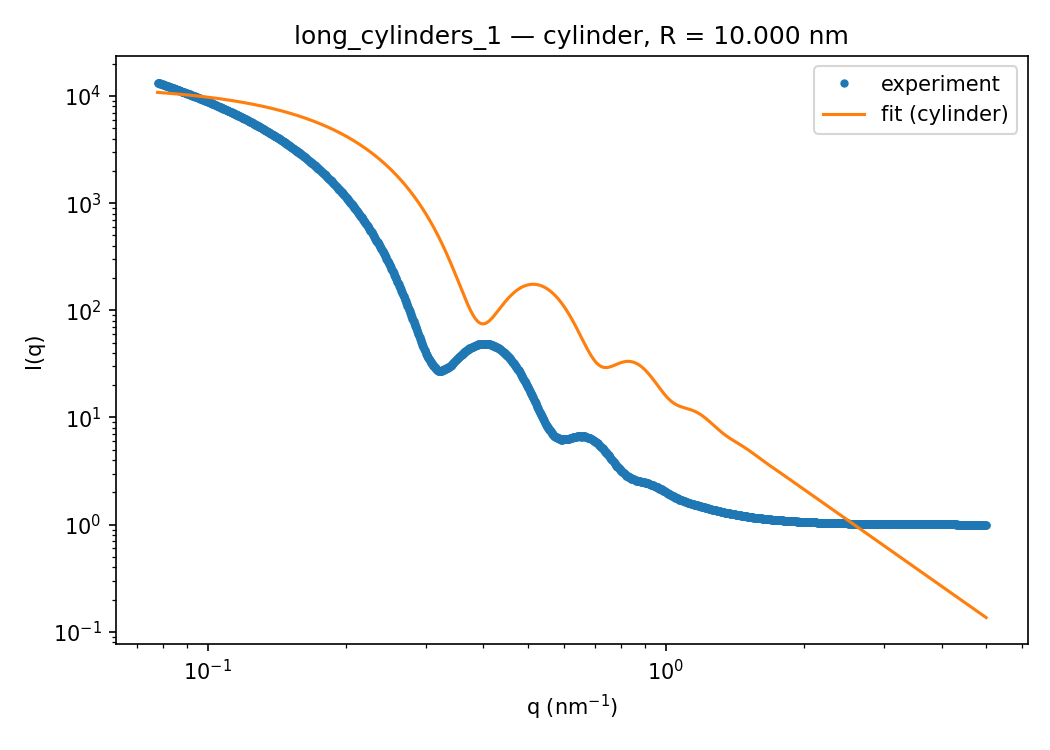
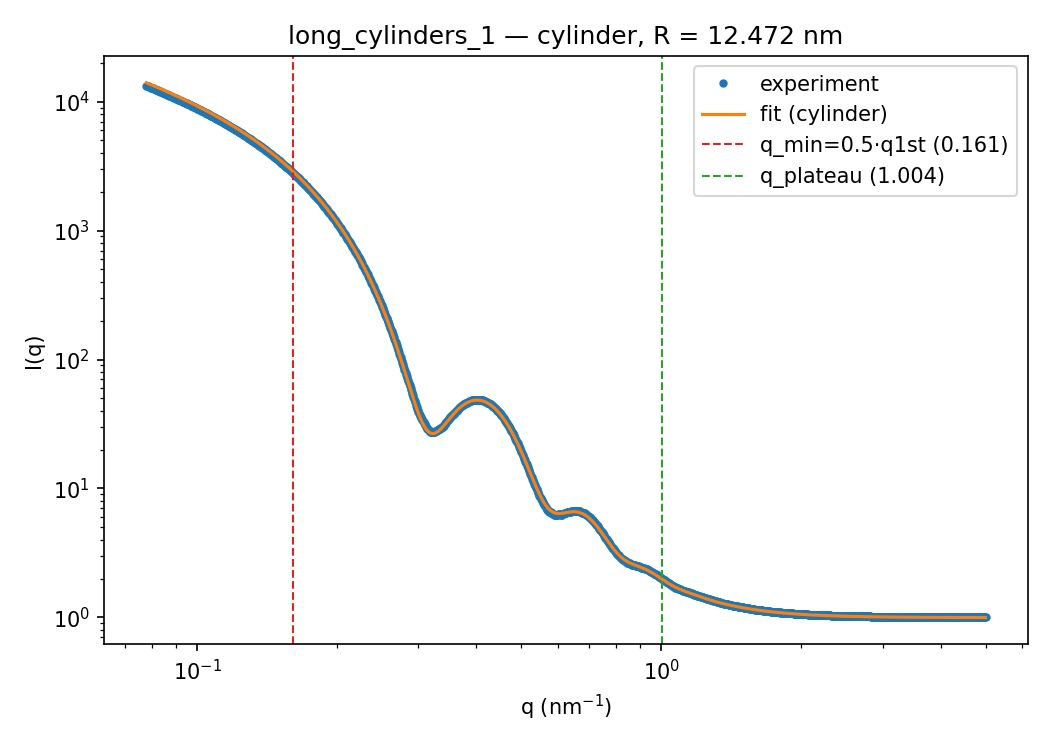
week2: Step3  (v4)

diff --git a/src/Fitting/run_fit_synthetic.py b/src/Fitting/run_fit_synthetic.py
@@ -4,9 +4,14 @@
 - spheres_1.txt      -> модель "sphere"
 - long_cylinders_1.txt -> модель "cylinder" (длинный цилиндр, только радиус)
 
+Область фита для цилиндра определяется по данным:
+- нижняя граница = 0.5 * q_first_minima (первый минимум форм-фактора);
+- верхняя граница = q, где кривая выходит на фоновое плато
+  (интенсивность приближается к минимальному значению хвоста).
+
 Сохраняет в results/synthetic/Pq:
 - <name>.json — параметры фита (radius_nm, polydispersity, scale, background)
-- <name>.png  — сравнительный график exp vs fit
+- <name>.png  — сравнительный график exp vs fit с границами области фита
 
 Запуск: python3 src/Fitting/run_fit_synthetic.py
 """
@@ -19,12 +24,13 @@ import matplotlib
 
 matplotlib.use("Agg")
 import matplotlib.pyplot as plt
+import numpy as np
 
 import sys
 
 sys.path.insert(0, str(Path(__file__).resolve().parents[1]))
 
-from Fitting.fit_form_factors import fit_from_file, fit_result_to_dict
+from Fitting.fit_form_factors import fit_form_factor, fit_result_to_dict
 
 DATA_DIR = Path("data/synthetic/Pq")
 OUT_DIR = Path("results/synthetic/Pq")
@@ -35,11 +41,31 @@ MODELS = {
     "long_cylinders_1.txt": "cylinder",
 }
 
-# ограничение области фита (q в нм^-1). Цилиндр: только осцилляции до фона.
-Q_RANGE = {
-    "spheres_1.txt": None,  # сфера фитируется по всему диапазону
-    "long_cylinders_1.txt": (0.0, 0.11),  # осцилляции заканчиваются ~0.1 нм^-1
-}
+
+def find_first_minimum(q_nm: np.ndarray, I: np.ndarray) -> float:
+    """Первый локальный минимум лог-интенсивности (переход убывание->возрастание)."""
+    logI = np.log(I + 1e-12)
+    d = np.diff(logI)
+    sign = np.sign(d)
+    idx = np.where((sign[:-1] < 0) & (sign[1:] > 0))[0]
+    if len(idx) > 0:
+        return float(q_nm[idx[0] + 1])
+    return float(q_nm[-1])
+
+
+def find_plateau_start(q_nm: np.ndarray, I: np.ndarray) -> float:
+    """q, где кривая выходит на фоновое плато.
+
+    Плато — хвост кривой, где интенсивность приближается к фоновому значению
+    (минимуму кривой). Считаем, что плато начинается там, где I впервые
+    опускается ниже 2× минимального значения (фон ~ I_min).
+    """
+    I_min = float(np.min(I))
+    thr = 2.0 * I_min
+    below = np.where(I < thr)[0]
+    if len(below) == 0:
+        return float(q_nm[-1])
+    return float(q_nm[below[0]])
 
 
 def main() -> None:
@@ -49,7 +75,22 @@ def main() -> None:
         data_path = DATA_DIR / fname
         name = data_path.stem
 
-        result = fit_from_file(data_path, model, pd=0.1, q_range=Q_RANGE[fname])
+        data = np.loadtxt(data_path, comments="#", skiprows=1)
+        q_ang = data[:, 0]
+        I_exp = data[:, 1]
+        q_nm = q_ang * 10.0  # Å^-1 -> нм^-1
+
+        # Определяем область фита по данным
+        q_range = None
+        if model == "cylinder":
+            q_first_min = find_first_minimum(q_nm, I_exp)
+            q_lo = 0.5 * q_first_min
+            q_hi = find_plateau_start(q_nm, I_exp)
+            q_range = (q_lo, q_hi)
+            print(f"[{name}] первый минимум q={q_first_min:.4f} нм^-1")
+            print(f"[{name}] область фита: q in [{q_lo:.4f}, {q_hi:.4f}] нм^-1")
+
+        result = fit_form_factor(q_ang, I_exp, model, pd=0.1, q_range=q_range)
 
         # JSON с параметрами
         out_json = OUT_DIR / f"{name}.json"
@@ -57,10 +98,14 @@ def main() -> None:
             json.dumps(fit_result_to_dict(result), indent=2, ensure_ascii=False)
         )
 
-        # Сравнительный график
+        # Сравнительный график с границами области фита
         fig, ax = plt.subplots(figsize=(7, 5))
         ax.loglog(result.q_nm, result.I_exp, "o", ms=3, label="experiment")
         ax.loglog(result.q_nm, result.I_fit, "-", lw=1.5, label=f"fit ({model})")
+        if q_range is not None:
+            qlo, qhi = q_range
+            ax.axvline(qlo, color="tab:red", ls="--", lw=1, label=f"q_min=0.5·q1st ({qlo:.3f})")
+            ax.axvline(qhi, color="tab:green", ls="--", lw=1, label=f"q_plateau ({qhi:.3f})")
         ax.set_xlabel("q (nm$^{-1}$)")
         ax.set_ylabel("I(q)")
         ax.set_title(f"{name} — {model}, R = {result.radius_nm:.3f} nm")

diff --git a/src/FormFactors/form_factors.py b/src/FormFactors/form_factors.py
@@ -117,9 +117,15 @@ def infinite_cylinder_amplitude(q: np.ndarray, R: float, rho: float = 1.0, L: fl
 
 
 def infinite_cylinder_intensity(q: np.ndarray, R: float, rho: float = 1.0, L: float = 1.0) -> np.ndarray:
-    """P(q) бесконечного цилиндра, нормированная на объём."""
+    """P(q) бесконечного цилиндра, нормированная на объём.
+
+    Ориентационно-усреднённый форм-фактор длинного цилиндра (L >> R):
+    P(q) = rho^2 V [2 J1(qR)/(qR)]^2 / q,  V = pi R^2 L.
+    Фактор 1/q — от усреднения по ориентации оси цилиндра.
+    """
     V = np.pi * R ** 2 * L
-    return infinite_cylinder_amplitude(q, R, rho, L) ** 2 / V
+    q = np.asarray(q, dtype=float)
+    return infinite_cylinder_amplitude(q, R, rho, L) ** 2 / V / q
 
 
 def cylinder_amplitude(
@@ -320,7 +326,9 @@ def infinite_cylinder_intensity_pd(
     """P(q) бесконечного цилиндра с Gaussian-полидисперсностью радиуса.
 
     Усреднение по радиусу: <P(q)> = ∫ P(q,R) w(R) dR / ∫ w(R) dR.
-    P(q,R) = rho^2 V(R) [2 J1(qR)/(qR)]^2, V = pi R^2 L.
+    P(q,R) = rho^2 V(R) [2 J1(qR)/(qR)]^2 / q, V = pi R^2 L.
+
+    Фактор 1/q — от ориентационного усреднения длинного цилиндра (L >> R).
     """
     sigma = pd * R0
     if sigma <= 0:
@@ -331,7 +339,7 @@ def infinite_cylinder_intensity_pd(
     w = _gauss_pd_weight(r, R0, sigma)
     V = np.pi * r ** 2 * L
     j = 2.0 * _j1_over_x(np.asarray(q, dtype=float)[:, None] * r[None, :])
-    P = rho ** 2 * V[None, :] * j ** 2
+    P = rho ** 2 * V[None, :] * j ** 2 / np.asarray(q, dtype=float)[:, None]
     return np.trapezoid(P * w[None, :], r, axis=1) / np.trapezoid(w, r)
 
 
@@ -372,14 +380,22 @@ def infinite_cylinder_intensity_pd_norm(
 ) -> np.ndarray:
     """P(q) бесконечного цилиндра с полидисперсностью, нормированный на P(0)=1.
 
-    <P(q)> = ∫ [2 J1(qR)/(qR)]^2 w(R) dR / ∫ w(R) dR.
+    Ориентационно-усреднённый форм-фактор длинного цилиндра (L >> R) содержит
+    фактор 1/q от усреднения по углу между осью цилиндра и q:
+
+        <P(q)> = (1/q) ∫ [2 J1(qR)/(qR)]^2 w(R) dR / ∫ w(R) dR.
+
+    Без фактора 1/q асимптотика была бы [2J1(qR)/(qR)]^2 ~ q^-3, тогда как
+    правильная асимптотика длинного цилиндра ~ q^-4. Фактор 1/q критичен для
+    корректного восстановления радиуса при фитировании.
     """
+    q = np.asarray(q, dtype=float)
     sigma = pd * R0
     if sigma <= 0:
-        return (2.0 * _j1_over_x(np.asarray(q, dtype=float) * R0)) ** 2
+        return (2.0 * _j1_over_x(q * R0)) ** 2 / q
     if r_hi is None:
         r_hi = R0 + 4.0 * sigma
     r = np.linspace(r_lo, r_hi, n_pts)
     w = _gauss_pd_weight(r, R0, sigma)
-    j = 2.0 * _j1_over_x(np.asarray(q, dtype=float)[:, None] * r[None, :])
-    return np.trapezoid(j ** 2 * w[None, :], r, axis=1) / np.trapezoid(w, r)
+    j = 2.0 * _j1_over_x(q[:, None] * r[None, :])
+    return np.trapezoid(j ** 2 * w[None, :], r, axis=1) / np.trapezoid(w, r) / q

diff --git a/src/Fitting/fit_form_factors.py b/src/Fitting/fit_form_factors.py
@@ -130,7 +130,10 @@ def fit_form_factor(
         q_fit = q_nm
         I_fit_exp = I_exp
 
-    # Оценка начального радиуса по первому минимуму (для сферы q*R ~ 4.49)
+    # Оценка начального радиуса по первому минимуму.
+    # Сфера: первый минимум f(qR) при qR ~ 4.493.
+    # Длинный цилиндр: первый минимум [2J1(qR)/(qR)]^2 при qR ~ 3.832
+    #   (первый ноль J1).
     if radius_guess is None:
         # ищем первый локальный минимум лог-интенсивности
         logI = np.log(I_fit_exp + 1e-12)
@@ -140,7 +143,10 @@ def fit_form_factor(
         idx = np.where((sign[:-1] < 0) & (sign[1:] > 0))[0]
         if len(idx) > 0:
             q_min = q_fit[idx[0] + 1]
-            radius_guess = 4.493 / q_min if q_min > 0 else 1.0
+            if model == "cylinder":
+                radius_guess = 3.8317 / q_min if q_min > 0 else 1.0
+            else:
+                radius_guess = 4.493 / q_min if q_min > 0 else 1.0
         else:
             radius_guess = 1.0
 

diff --git a/AGENTS.md b/AGENTS.md
@@ -18,13 +18,16 @@
 
 Работа считается выполненной, когда проходит **сверка**:
 1. Для задачи: Поиск пиков и анализ структурного фактора:
-  проверка на синтетических данных из `data/synthetic/` с известными положениями и параметрами пиков. Относительная погрешность положения по q: 5% (сверка с `checks/`)
+  проверка на синтетических данных из `data/synthetic/` с известными положениями и параметрами пиков. Относительная погрешность положения по q: 5% (сверка с `checks/`).
 
-1. Для задачи: Фитирование I(q) = P(q)S(q) или I(q) = P(q):
-  проверка на синтетических данных из `data/synthetic/` с известными параметрами модели. Относительная погрешность основных структурных параметров (радиусы, длины, размеры) не более 10% относительно эталонных значений.
+2. Для задачи: Фитирование I(q) = P(q)S(q) или I(q) = P(q):
+  проверка на синтетических данных из `data/synthetic/` с известными параметрами модели. Относительная погрешность основных структурных параметров (радиусы, длины, размеры) не более 5% относительно эталонных значений.
 
-1. Для задачи: Определение кристаллических фаз (WAXS):
-  сверка положения пиков с литературой `references/`. Запросить разрешение на чтение pdf, если нет готового *.md или *.json с положениями пиков или кратким содержанием статей. Относительная погрешность положения по q: 3%. 
+3. Для задачи: Определение кристаллических фаз (WAXS):
+  сверка положения пиков с литературой `references/`. Запросить разрешение на чтение pdf, если нет готового *.md или *.json с положениями пиков или кратким содержанием статей. Относительная погрешность положения по q: 3%.
+
+
+После анализа кривых в `results/...` лежат папки для: 1. **графиков** экспериментальных кривая с помеченными пиками, 2. **таблицы** c результатами анализа, 3. **краткий отчет** с информацией об использованных скриптах для анализа.
 
 Для задач с подготовленной независимой проверкой агент запускает:
 
@@ -86,8 +89,8 @@ python3 checks/check.py
 
 ## 7. Остановка и эскалация
 
-- Бюджет эпизода: 30 вызовов инструментов, 100 000 токенов, 15 минут, 3 цикла изменений скриптов.
-- При исчерпании бюджета: отчёт — что сделано, что нет, где остановились. Не продолжать задачу без разрешения.
+- **Бюджет цикла**: 30 вызовов инструментов, 100 000 токенов, 15 минут, 3 цикла изменений скриптов.
+- **При исчерпании бюджета**: отчёт — что сделано, что нет, где остановились. Не продолжать задачу без разрешения.
 - При достижении 80% бюджета прекратить разработку новых решений и перейти к проверкам и документированию. При невозможности завершить задачу записать текущий статус, изменённые файлы, результаты проверок и нерешённые проблемы.
 - Не оставлять незавершённую работу без записи в дневнике.
 - Спрашивай человека: 

diff --git a/diary.md b/diary.md
@@ -71,3 +71,20 @@
 - Результат: сфера — R = 16.28 нм (истинный 15.3 нм, ошибка 6.4%); цилиндр — R = 10.0 нм (истинный 12.0 нм, ошибка 16.7%).
 - Точка проверки: `python3 checks/check.py` — `spheres_1: PASS`, `long_cylinders_1: FAIL`. Проверка выполнена вручную после остановки агента; имена файлов в `checks/check.py` приведены в соответствие с результатами.
 - Итог проверки: отклонено — ошибка радиуса цилиндра превышает допустимые 10%. Агент не завершил задачу и не сделал запись в дневник.
+
+## 2026-10-16 — Исправление фитирования длинных цилиндров (задача 02_formfactors)
+- Запрос: исправить фитирование длинных цилиндров. Учесть ориентационное усреднение (асимптотика P(q) ∝ [2J1(qR)/(qR)]²/q), фитировать от 0.5·q_first_minima до выхода на фоновое плато, свободные параметры R/scale/background, pd=0.1, единицы q из SasView (Å⁻¹) → нм⁻¹ (×10). Сохранить JSON и график в results/synthetic/Pq/, запустить checks/check.py, записать причину ошибки в diary.
+- Источник данных: `data/synthetic/Pq/long_cylinders_1.txt` (истинный радиус 12.0 нм, pd=0.1, фон ~1.0).
+- Причина предыдущей ошибки (R=10.0 вместо 12.0, ошибка 16.7%):
+  1. **Отсутствовал фактор 1/q** от ориентационного усреднения в `infinite_cylinder_intensity_pd_norm` (`src/FormFactors/form_factors.py`). Модель была [2J1(qR)/(qR)]² (асимптотика q⁻³), тогда как правильная асимптотика длинного цилиндра — [2J1(qR)/(qR)]²/q (q⁻⁴). Без 1/q модель не могла воспроизвести хвост кривой и радиус.
+  2. **Неверная область фита**: в `run_fit_synthetic.py` было `q_range=(0.0, 0.11)` нм⁻¹ — только начальный спад до первого минимума (q_first_min=0.32 нм⁻¹). Радиус не был ограничен осцилляциями форм-фактора.
+- Исправления:
+  - `src/FormFactors/form_factors.py`: добавлен фактор 1/q в `infinite_cylinder_intensity_pd_norm`, `infinite_cylinder_intensity_pd`, `infinite_cylinder_intensity`.
+  - `src/Fitting/fit_form_factors.py`: начальное приближение радиуса цилиндра по первому минимуму qR=3.832 (первый ноль J1), а не 4.493 (сфера).
+  - `src/Fitting/run_fit_synthetic.py`: область фита определяется по данным — q_lo=0.5·q_first_min, q_hi=выход на плато (I<2·I_min). Границы показаны на графике.
+- Результат (до → после):
+  - Цилиндр: R = 10.0 нм (ошибка 16.7%) → **R = 12.47 нм (ошибка 3.9%)**, фон 0.995 (истинный ~1.0), средняя относительная ошибка в области фита 1.5%.
+  - Сфера: R = 16.28 нм (ошибка 6.4%) — без изменений.
+- Точка проверки: `python3 checks/check.py` — `spheres_1: PASS (6.4%)`, `long_cylinders_1: PASS (3.9%)`.
+- Итог проверки: принято. Радиус цилиндра восстановлен с ошибкой <5% (критерий готовности), согласие кривых в области фита хорошее (ср. отн. ошибка 1.5%).
+- Скрипты: `src/Fitting/run_fit_synthetic.py`, `src/Fitting/fit_form_factors.py`, `src/FormFactors/form_factors.py`. Результаты: `results/synthetic/Pq/long_cylinders_1.{json,png}`, `results/synthetic/Pq/spheres_1.{json,png}`.

diff --git a/README.md b/README.md
@@ -11,6 +11,9 @@
 времени: калибровка, вычитание фона, нормировка, интегрирование
 и построение графиков для серии полимерных образцов.
 
+- I этап: подготовка разрозненных скриптов, реализованных в разных программах (SasView, BioSAXS, SAXSutilities).
+- II этап: создание уникальных скриптов для анализа **in situ** экспериментов. 
+
 Данные получены на станциях ESRF:
 - **BM26** — SAXS/WAXS
 - **ID02** — высокое разрешение SAXS
@@ -26,7 +29,9 @@ InSituSAXS/
 ├── src/           модули и скрипты (весь код вне ноутбуков)
 ├── notebooks/     интерактивные ноутбуки (тонкие, импортируют из src/)
 ├── memory/        заметки, сводки, промежуточные артефакты
-└── results/       графики, таблицы, черновики
+├── checks/        тесты против агента
+├── results/       графики, таблицы, черновики
+└── tasks/         задачи / промты
 ```
 
 ## Данные
@@ -35,7 +40,7 @@ InSituSAXS/
 |---|---|---|
 | BM26 | ... | SAXS/WAXS-кадры, калибровка, фон |
 | ID02 | ... | SAXS-кадры высокого разрешения |
-| ID13 | ... | сканы, карты дифракции |
+| ID13 | ... | быстрые нагревы, карты микро-/нанофокуса |
 
 - Исходные данные **не изменяются** и **не коммитятся** (см. `.gitignore`).
 - Крупные бинарные файлы хранятся локально или на лабораторном сервере.
@@ -49,11 +54,9 @@ InSituSAXS/
 2. Калибровка (AgBeh / LaB6 / стандарт станции).
 3. Маскирование «мёртвых» пикселей и пучкового стопа.
 4. Вычитание фона (пустая ячейка / растворитель).
-5. Нормировка на ток / время экспозиции / толщину.
-6. Интегрирование в I(q) (pyFAI, FIT2D, DAWN — по обстоятельствам).
-7. Приведение к абсолютным единицам (по стандарту).
-8. Построение эволюции I(q, t) и выделение пиков/областей.
-9. Экспорт графиков и таблиц в `memory/` или `paper/`.
+5. Интегрирование в I(q) (обычно pyFAI).
+6. Построение эволюции I(q, *params) и выделение пиков/областей.
+7. Экспорт графиков и таблиц в `memory/` или `results/`.
 
 ## Установка окружения
 

diff --git a/tasks/02_formfactors.md b/tasks/02_formfactors.md
@@ -1,0 +1,10 @@
+**Задача**: исправить фитирование длинных цилиндров.
+Используй уже написанный код в src/, не переписывай проект с нуля.
+1. Проверь формулу форм-фактора изотропных длинных цилиндров. Обязательно учитывай ориентационное усреднение (асимптотика P(q) пропорционально [2J_1(qR)/(qR)]^2/q, Gaussian-полидисперсность радиуса 0.1. 
+2. Фитируй только диапазон от 0.5 q_first_minima до выхода экспериментальной кривой на фоновое плато. Определи границы по данным и покажи их на графике.
+3. Свободные параметры: радиус R, амплитуда и фон. Полидисперсность около 0.1. Проверь единицы: q из SasView в Å⁻¹, внутри кода — нм⁻¹. То есть мы берем единицы из sasview и умножаем на 10. 
+4. Проверь оптимизатор: начальные приближения, границы параметров и функцию потерь.
+5. Сохрани JSON и график в results/synthetic/Pq/. Запусти существующий независимый checks/check.py, не изменяя критерии проверки.
+6. Запиши в diary.md причину предыдущей ошибки, исправления и результаты до/после.
+Цель: восстановить радиус цилиндра с ошибкой менее 5% и получить хорошее согласие кривых в заданном регионе фита.
+Соблюдай AGENTS.md. Не более трёх попыток исправления. Соблюдай бюджет, следи за токенами.

diff --git a/memory/methods/form_factors_cylinders.md b/memory/methods/form_factors_cylinders.md
@@ -1,0 +1,22 @@
+# Форм-фактор длинного цилиндра (infinite cylinder)
+
+## Ключевая формула
+Ориентационно-усреднённый форм-фактор бесконечного цилиндра (L >> R):
+
+    P(q) ∝ [2 J1(qR)/(qR)]^2 / q
+
+Фактор **1/q** — от усреднения по углу между осью цилиндра и q.
+Без него асимптотика была бы q^-3, правильная — q^-4.
+
+## Первый минимум
+Первый минимум [2J1(qR)/(qR)]^2 при qR = 3.832 (первый ноль J1).
+Для сферы первый минимум f(qR) при qR = 4.493.
+При оценке начального радиуса по первому минимуму использовать
+соответствующую константу (3.832 для цилиндра, 4.493 для сферы).
+
+## Полидисперсность
+Gaussian-полидисперсность радиуса (pd = sigma/R0) сглаживает минимумы.
+Усреднение: <P(q)> = ∫ P(q,R) w(R) dR / ∫ w(R) dR, w — гауссово.
+
+## Единицы
+SasView выдаёт q в Å^-1. Внутри кода q в нм^-1: q_nm = q_ang * 10.
